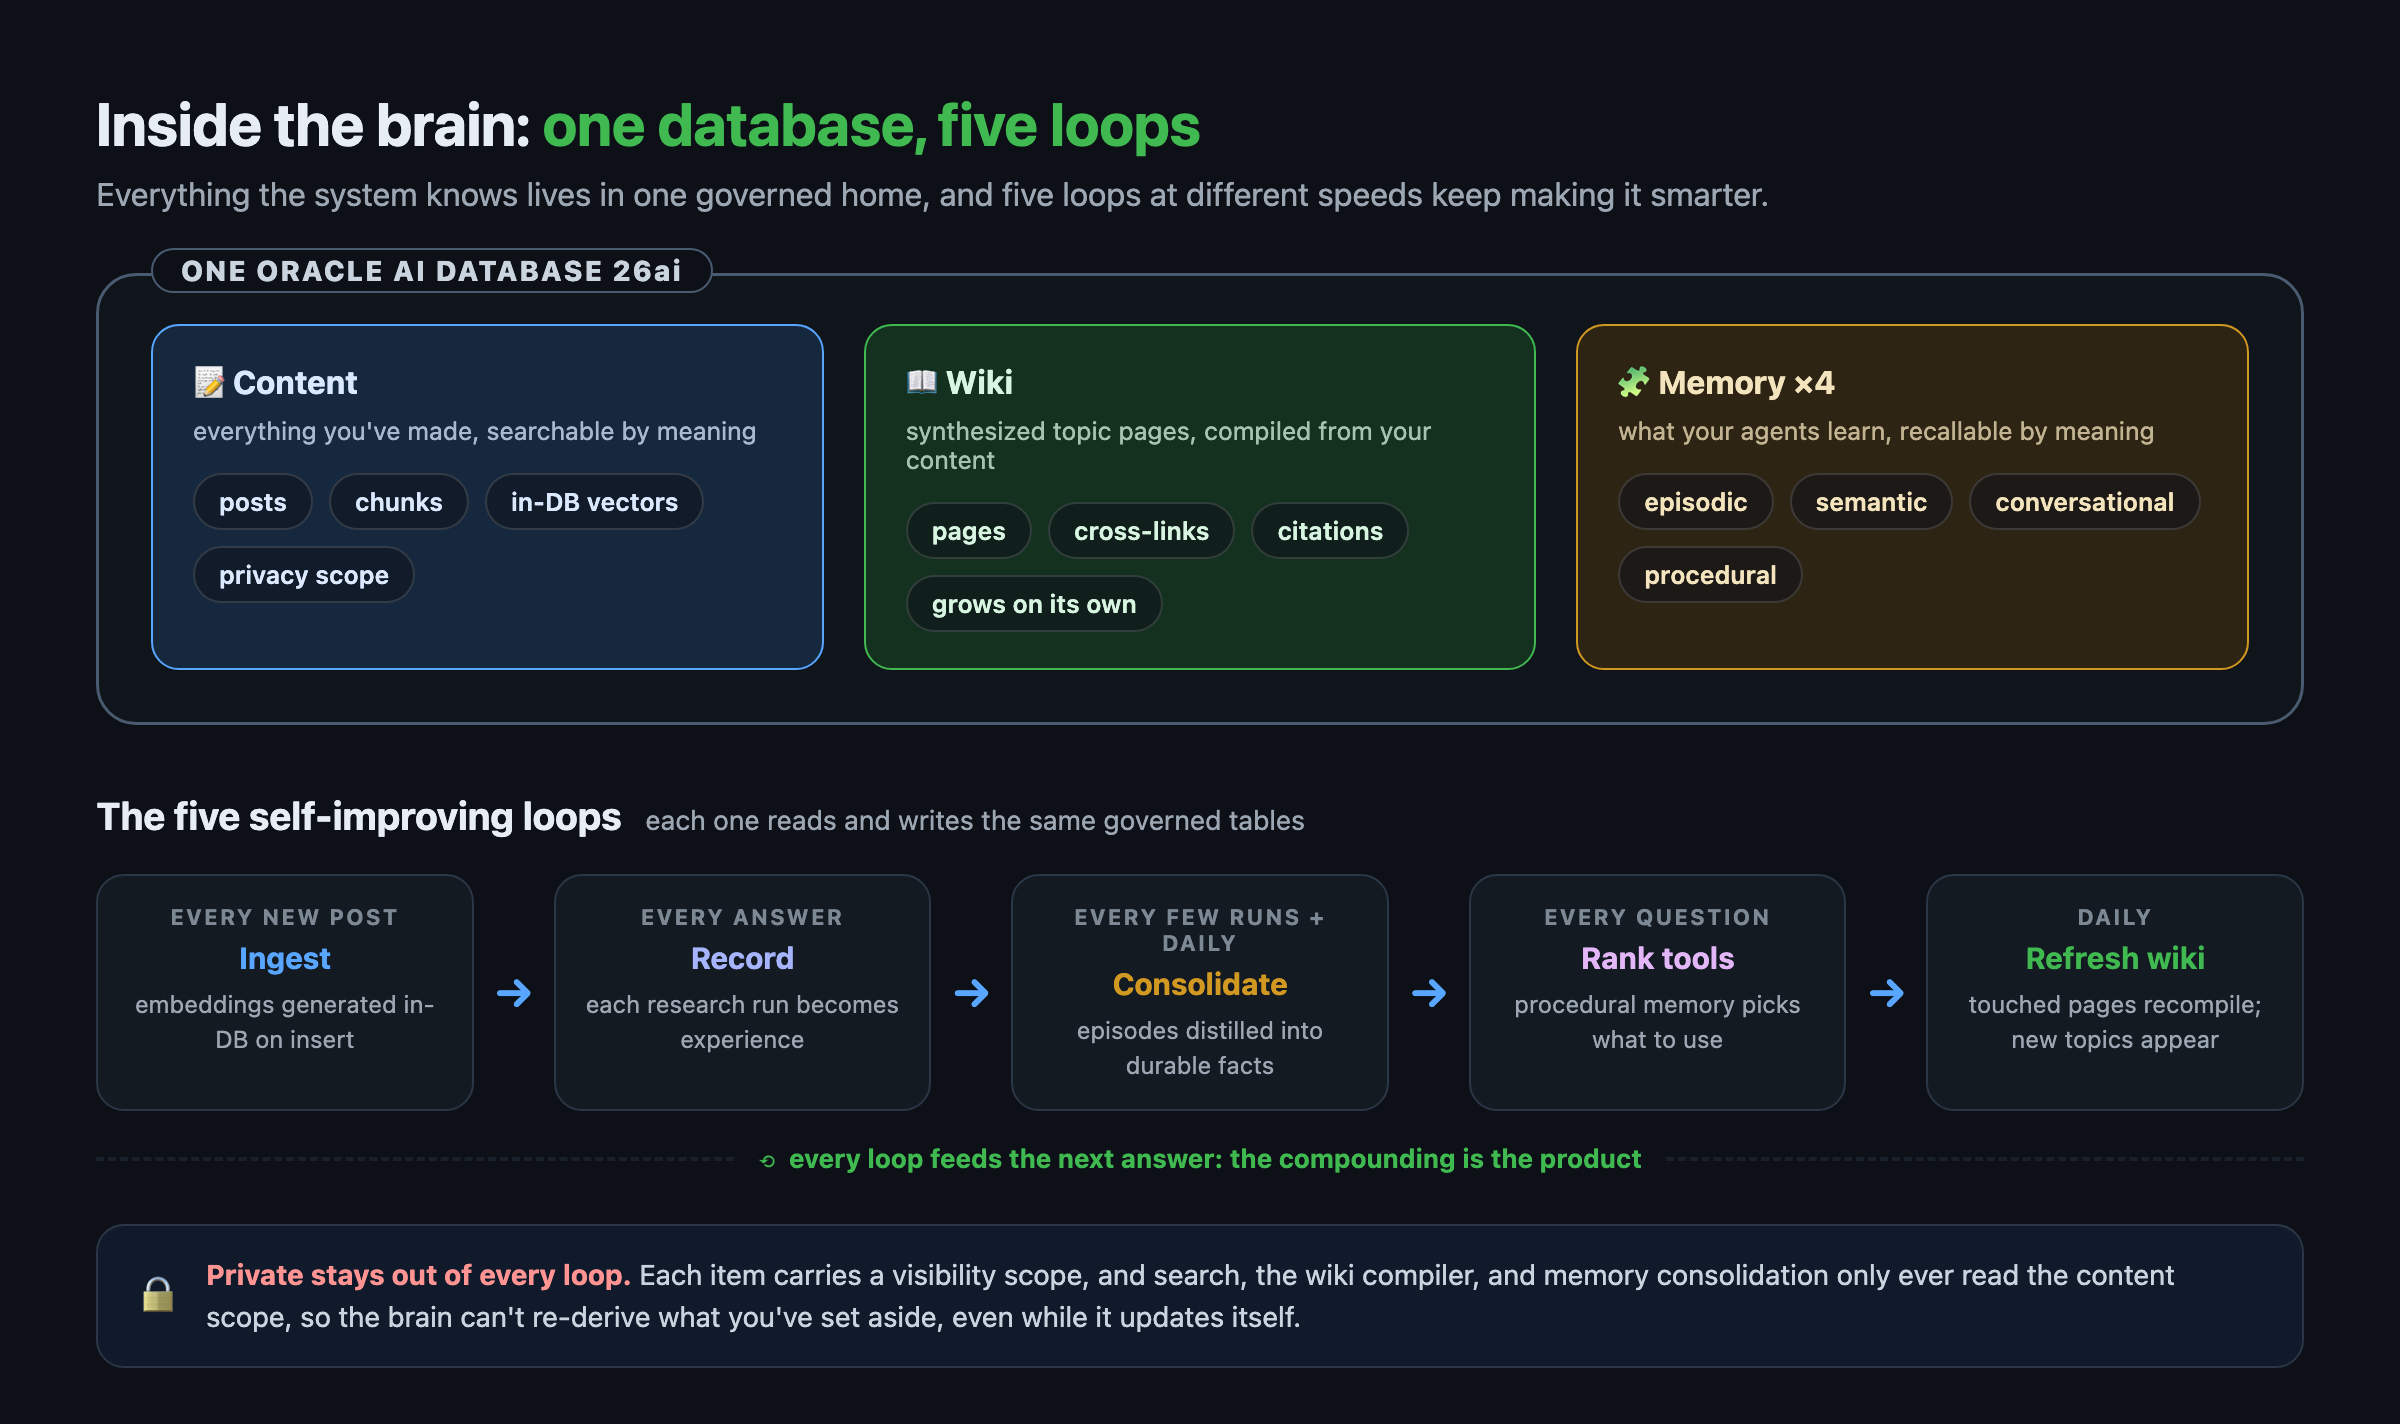
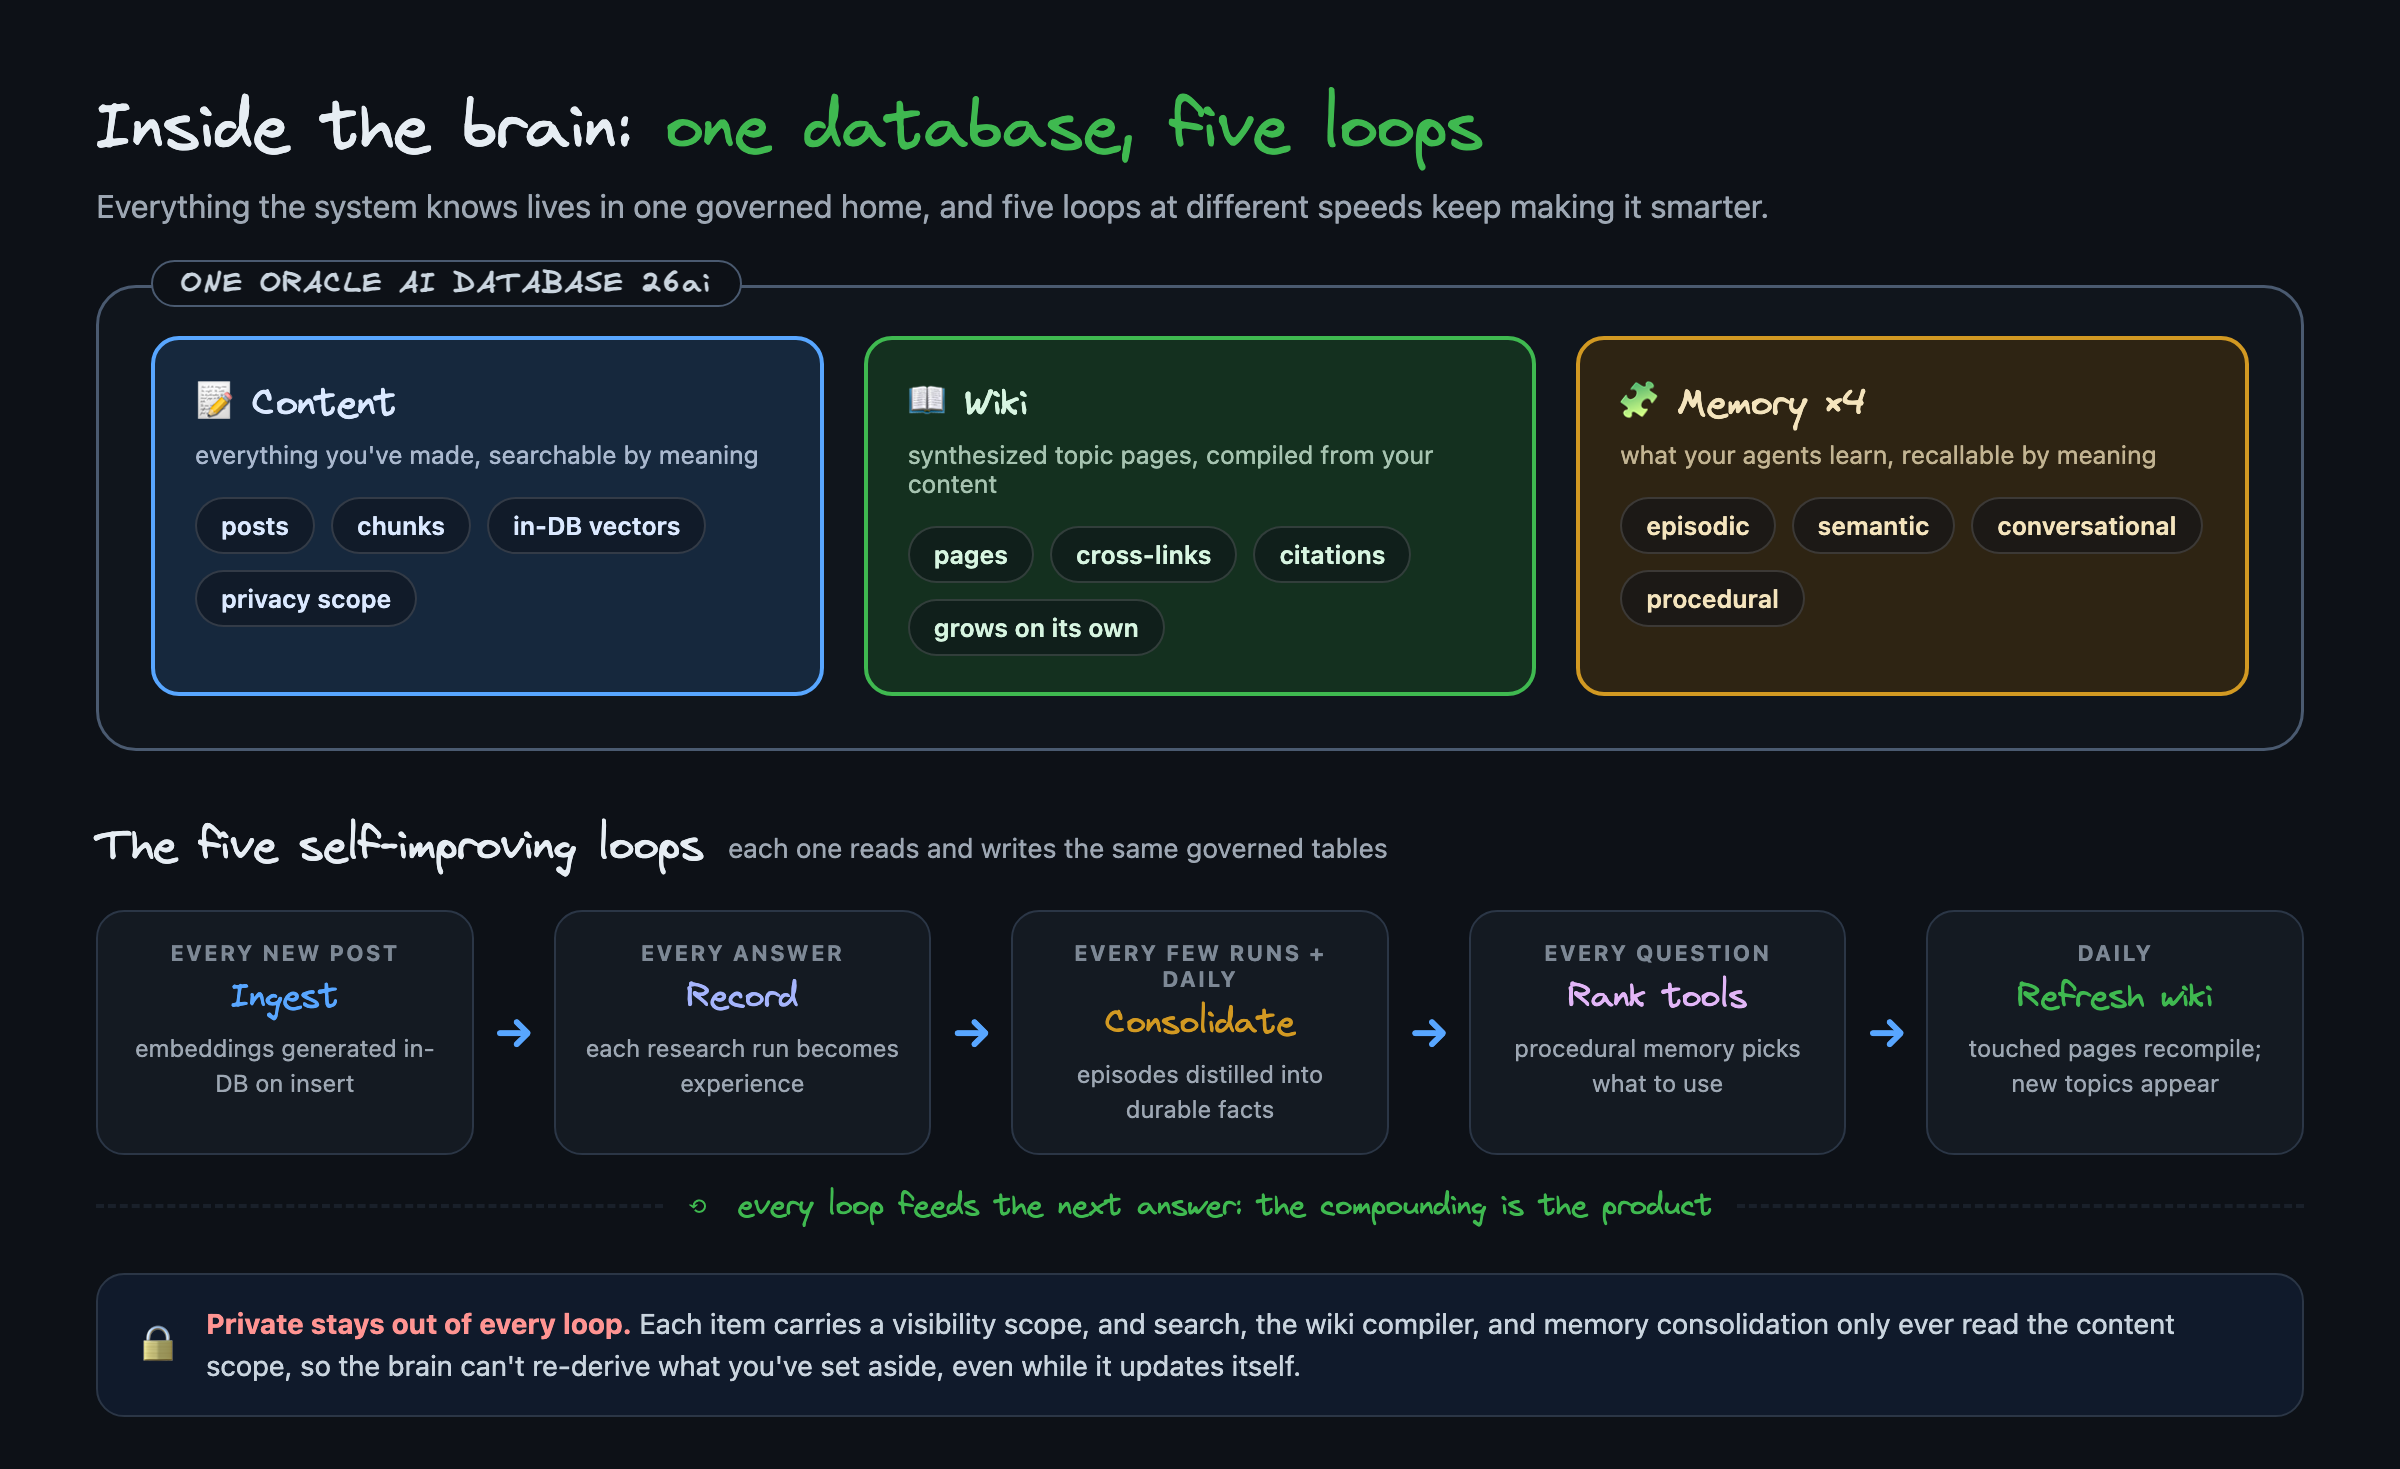
Approved visual set: HTML/CSS hero + hand-lettered wiki/brain visuals
- New hero (docs/images/hero.png) replaces the Excalidraw hero in the blog:
  Virgil hand-lettering for display text, clean geometry, sketchy arrows
- wiki-duality + brain-loops re-rendered in the same style
- Sources + Virgil font in docs/images/src/ (headless Chrome at 2x to render)
- Excalidraw hero source also updated (open-source clients, v3.2 fills)
  and kept as an editable alternative

diff --git a/docs/images/src/hero.html b/docs/images/src/hero.html
@@ -1,0 +1,124 @@
+<!doctype html>
+<html>
+<head>
+<meta charset="utf-8">
+<style>
+  @font-face {
+    font-family: 'Virgil';
+    src: url('Virgil.woff2') format('woff2');
+  }
+  * { margin: 0; padding: 0; box-sizing: border-box; }
+  body {
+    background: #0d1117;
+    font-family: -apple-system, BlinkMacSystemFont, "Segoe UI", Roboto, Helvetica, Arial, sans-serif;
+    color: #e6edf3;
+    width: 1200px;
+    padding: 40px 48px 36px;
+    position: relative;
+    overflow: hidden;
+  }
+  .glow {
+    position: absolute; width: 720px; height: 720px; border-radius: 50%;
+    background: radial-gradient(circle, #1f6feb26 0%, transparent 62%);
+    top: -170px; left: 240px; pointer-events: none;
+  }
+  .hand { font-family: 'Virgil', cursive; font-weight: 400; }
+
+  .title { font-family: 'Virgil'; font-size: 34px; letter-spacing: 0.2px; position: relative; }
+  .title .accent { color: #58a6ff; }
+  .subtitle { font-size: 15.5px; color: #9da7b3; margin-top: 8px; position: relative; }
+
+  .flow { display: flex; align-items: center; gap: 0; margin-top: 30px; position: relative; }
+
+  /* sketchy border: uneven radii + slight tilt */
+  .card {
+    border: 2px solid; padding: 18px 20px;
+    border-radius: 16px;
+  }
+  .card h3 { font-family: 'Virgil'; font-size: 18px; display: flex; gap: 9px; align-items: center; white-space: nowrap; }
+  .card .sub { font-size: 12px; margin-top: 4px; opacity: 0.75; }
+  .chips { display: flex; flex-wrap: wrap; gap: 7px; margin-top: 12px; }
+  .chip {
+    font-size: 11.5px; font-weight: 600; padding: 4.5px 11px;
+    background: rgba(13,17,23,0.5); border: 1.4px solid rgba(255,255,255,0.16); white-space: nowrap;
+    border-radius: 999px;
+  }
+
+  .sources { flex: 0 0 218px; background: #16283d; border-color: #58a6ff; color: #dbe9ff; }
+
+  .db {
+    flex: 0 0 336px; background: linear-gradient(180deg, #1a222d, #151c26);
+    border-color: #9aa7b4; color: #e6edf3; padding: 20px 22px;
+    box-shadow: 0 0 40px #1f6feb22; border-radius: 18px;
+  }
+  .db h3 { font-size: 20px; }
+
+  .stack { flex: 1; display: flex; flex-direction: column; gap: 12px; }
+  .mini {
+    border: 2px solid; padding: 11px 18px; display: flex; align-items: baseline; gap: 10px;
+    border-radius: 14px;
+  }
+  .mini b { font-family: 'Virgil'; font-size: 16.5px; font-weight: 400; white-space: nowrap; }
+  .mini span { font-size: 12px; opacity: 0.78; }
+  .agent { background: #14301f; border-color: #3fb950; color: #d7f5e1; }
+  .mcp   { background: #2e2413; border-color: #d29922; color: #f4e4bd; }
+  .apps  { background: #1c222b; border-color: #5b6c81; color: #d7dee6; }
+
+  .arrow { flex: 0 0 48px; display: flex; align-items: center; justify-content: center; }
+
+  .foot {
+    margin-top: 26px; display: flex; gap: 28px; font-size: 13.5px; color: #8d99a7;
+    position: relative; align-items: baseline;
+  }
+  .foot .tag { font-family: 'Virgil'; font-size: 16.5px; color: #3fb950; }
+</style>
+</head>
+<body>
+  <div class="glow"></div>
+  <div class="title">🧠 A Second Brain on <span class="accent">Oracle AI Database 26ai</span></div>
+  <div class="subtitle">One engine holds your content, its meaning, and your agents' memory. Reach it from any AI chat.</div>
+
+  <div class="flow">
+    <div class="card sources">
+      <h3>📥 Your sources</h3>
+      <div class="sub">swap freely, you choose</div>
+      <div class="chips">
+        <span class="chip">markdown</span><span class="chip">socials</span>
+        <span class="chip">AI chats</span><span class="chip">notes &amp; docs</span>
+      </div>
+    </div>
+
+    <div class="arrow">
+      <svg width="38" height="22" viewBox="0 0 38 22"><path d="M2 13 C 12 9, 20 12, 30 10 m0 0 -6.5 -5.5 M30 10 l-5.5 7" stroke="#58a6ff" stroke-width="2.6" fill="none" stroke-linecap="round"/></svg>
+    </div>
+
+    <div class="card db">
+      <h3>🗄️ ONE Oracle AI Database 26ai</h3>
+      <div class="sub">relational + JSON Duality + AI Vector Search</div>
+      <div class="chips">
+        <span class="chip">📝 content</span>
+        <span class="chip">📖 self-growing wiki</span>
+        <span class="chip">🧩 memory ×4</span>
+        <span class="chip">in-DB embeddings</span>
+        <span class="chip">🔒 privacy scope</span>
+      </div>
+    </div>
+
+    <div class="arrow">
+      <svg width="38" height="22" viewBox="0 0 38 22"><path d="M2 9 C 12 13, 20 10, 30 12 m0 0 -6.5 -5.5 M30 12 l-5.5 7" stroke="#3fb950" stroke-width="2.6" fill="none" stroke-linecap="round"/></svg>
+    </div>
+
+    <div class="stack">
+      <div class="mini agent"><b>🤖 Research agent</b><span>grounded, remembers, improves</span></div>
+      <div class="mini mcp"><b>🔌 MCP server</b><span>the brain, in any AI chat</span></div>
+      <div class="mini apps"><b>💬 Claude · ChatGPT · open-source clients</b></div>
+    </div>
+  </div>
+
+  <div class="foot">
+    <span class="tag">Build it once, feed it forever</span>
+    <span>runs free on your laptop, or always-on in Oracle Cloud</span>
+    <span>self-improving on a daily loop</span>
+  </div>
+</body>
+</html>

diff --git a/docs/images/src/brain-loops.html b/docs/images/src/brain-loops.html
@@ -3,6 +3,10 @@
 <head>
 <meta charset="utf-8">
 <style>
+  @font-face {
+    font-family: 'Virgil';
+    src: url('Virgil.woff2') format('woff2');
+  }
   * { margin: 0; padding: 0; box-sizing: border-box; }
   body {
     background: #0d1117;
@@ -11,7 +15,7 @@
     width: 1200px;
     padding: 44px 48px 40px;
   }
-  .title { font-size: 30px; font-weight: 700; letter-spacing: -0.3px; }
+  .title { font-family: 'Virgil'; font-size: 33px; font-weight: 400; letter-spacing: 0.2px; }
   .title .accent { color: #3fb950; }
   .subtitle { font-size: 16px; color: #9da7b3; margin-top: 8px; }
 
@@ -19,14 +23,16 @@
     margin-top: 30px; border: 1.5px solid #4a5a70; border-radius: 20px;
     background: #10151c; padding: 24px 26px 26px; position: relative;
   }
-  .db-label {
+  .db-label { font-family: 'Virgil';
     position: absolute; top: -14px; left: 26px; background: #0d1117;
     padding: 2px 14px; font-size: 14px; font-weight: 800; letter-spacing: 1px; color: #c9d4de;
     border: 1px solid #4a5a70; border-radius: 999px;
   }
   .cols { display: flex; gap: 20px; }
-  .pillar { flex: 1; border-radius: 14px; padding: 18px 20px; border: 1.3px solid; }
-  .pillar h3 { font-size: 16px; font-weight: 700; display: flex; align-items: center; gap: 9px; }
+  .pillar { flex: 1; padding: 18px 20px; border: 2px solid;
+    border-radius: 14px; }
+  
+  .pillar h3 { font-family: 'Virgil'; font-size: 19px; font-weight: 400; display: flex; align-items: center; gap: 9px; }
   .pillar .desc { font-size: 12.5px; margin: 6px 0 14px; opacity: 0.75; }
   .chips { display: flex; flex-wrap: wrap; gap: 8px; }
   .chip {
@@ -39,15 +45,17 @@
 
   .loops { margin-top: 34px; }
   .loops-head { display: flex; align-items: baseline; gap: 12px; }
-  .loops-head h2 { font-size: 19px; font-weight: 700; color: #e6edf3; }
+  .loops-head h2 { font-family: 'Virgil'; font-size: 22px; font-weight: 400; color: #e6edf3; }
   .loops-head span { font-size: 13.5px; color: #9da7b3; }
   .track { display: flex; align-items: stretch; margin-top: 18px; }
   .loop {
-    flex: 1; background: #141a22; border: 1px solid #2b3646; border-radius: 14px;
+    flex: 1; background: #141a22; border: 1px solid #2b3646;
+    border-radius: 14px;
     padding: 14px 14px 13px; text-align: center; position: relative;
   }
+  
   .loop .when { font-size: 11px; font-weight: 700; letter-spacing: 1px; text-transform: uppercase; color: #7d8895; }
-  .loop .what { font-size: 15px; font-weight: 700; margin-top: 5px; }
+  .loop .what { font-family: 'Virgil'; font-size: 17px; font-weight: 400; margin-top: 5px; }
   .loop .gain { font-size: 12px; color: #9da7b3; margin-top: 6px; line-height: 1.45; }
   .arrow {
     align-self: center; width: 40px; text-align: center; color: #58a6ff;
@@ -61,7 +69,7 @@
     color: #7d8895; font-size: 13px;
   }
   .cycle .line { flex: 1; border-top: 2px dashed #33405255; position: relative; }
-  .cycle .back { color: #3fb950; font-weight: 700; }
+  .cycle .back { font-family: 'Virgil'; color: #3fb950; font-size: 15px; }
 
   .foot {
     margin-top: 24px; display: flex; align-items: center; gap: 14px;

diff --git a/docs/images/src/wiki-duality.html b/docs/images/src/wiki-duality.html
@@ -3,6 +3,10 @@
 <head>
 <meta charset="utf-8">
 <style>
+  @font-face {
+    font-family: 'Virgil';
+    src: url('Virgil.woff2') format('woff2');
+  }
   * { margin: 0; padding: 0; box-sizing: border-box; }
   body {
     background: #0d1117;
@@ -11,15 +15,17 @@
     width: 1200px;
     padding: 44px 48px 40px;
   }
-  .title { font-size: 30px; font-weight: 700; letter-spacing: -0.3px; }
+  .title { font-family: 'Virgil'; font-size: 33px; font-weight: 400; letter-spacing: 0.2px; }
   .title .accent { color: #58a6ff; }
   .subtitle { font-size: 16px; color: #9da7b3; margin-top: 8px; }
   .row { display: flex; gap: 26px; margin-top: 30px; align-items: stretch; }
   .card {
-    flex: 1; background: #141a22; border: 1px solid #2b3646; border-radius: 16px;
-    padding: 22px 24px; position: relative;
+    flex: 1; background: #141a22; border: 1px solid #2b3646;
+    border-radius: 16px;
+    padding: 22px 26px; position: relative;
   }
-  .card h2 { font-size: 15px; font-weight: 700; text-transform: uppercase; letter-spacing: 1.2px; }
+  
+  .card h2 { font-family: 'Virgil'; font-size: 19px; font-weight: 400; letter-spacing: 0.4px; }
   .card .who { font-size: 13px; color: #9da7b3; margin-top: 3px; margin-bottom: 16px; }
   .doc h2 { color: #58a6ff; }
   .graph h2 { color: #3fb950; }
@@ -61,7 +67,7 @@
     background: linear-gradient(90deg, #101a2b, #101d15); border: 1px solid #2b3646;
     border-radius: 14px; padding: 16px 22px;
   }
-  .bottom .pill {
+  .bottom .pill { font-family: 'Virgil';
     background: #d29922; color: #0d1117; font-weight: 800; font-size: 12.5px;
     border-radius: 999px; padding: 6px 14px; white-space: nowrap; letter-spacing: 0.4px;
   }

diff --git a/docs/BLOG.md b/docs/BLOG.md
@@ -56,7 +56,7 @@ sharper every time you use it.
 
 The brain is the product. MCP is how everything reaches it. Agents are what you keep building.
 
-![Second Brain architecture: your chosen sources flow into one Oracle 26ai database (content + wiki + memory), used by a research agent and an MCP server any AI client can call](images/architecture-hero-hand.svg)
+![Second Brain at a glance: your sources flow into one Oracle AI Database 26ai (content, self-growing wiki, memory x4, in-DB embeddings, privacy scope), used by a research agent and an MCP server that plugs into Claude, ChatGPT, and open-source clients](images/hero.png)
 
 **What you need:** a Mac with [Homebrew](https://brew.sh), Python 3.12, and about 20 minutes.
 **No prior Oracle experience required.** Every step is copy-paste-able. If anything errors, paste